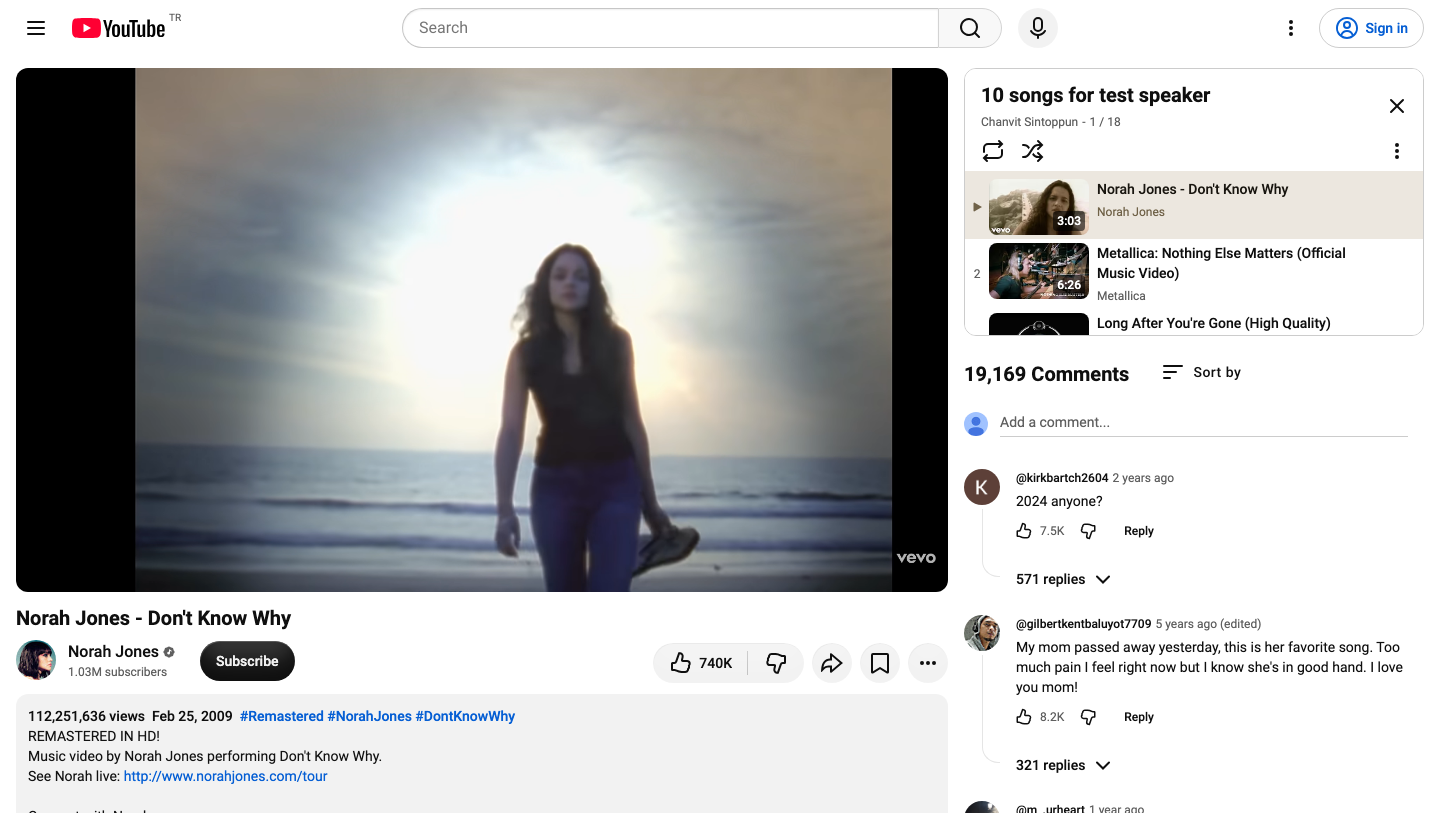
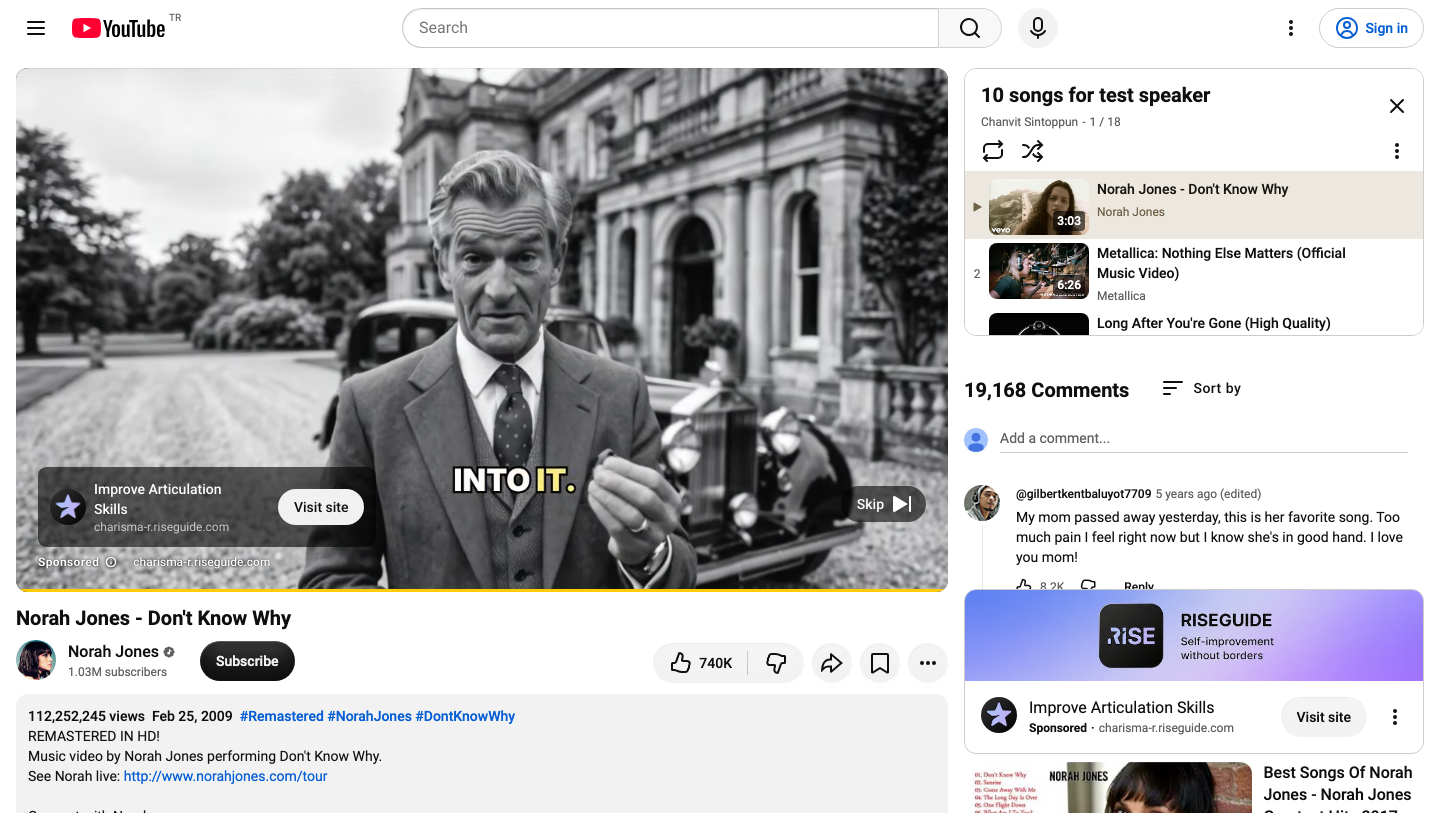
Pin comments pane and scroll recommendations separately

diff --git a/youtube-comments-right.user.js b/youtube-comments-right.user.js
@@ -1,7 +1,7 @@
 // ==UserScript==
 // @name         YouTube: Comments on the Right
 // @namespace    https://github.com/sslinkup/youtube-comments-on-right
-// @version      4.1.2
+// @version      4.2.0
 // @description  Moves comments next to the video, locks the page, and gives the right column its own scrollbar.
 // @author       sslinkup
 // @license      MIT
@@ -31,6 +31,9 @@
     expandDescription: true,      // auto-click "more" to show the full description
     playlistOnTop: true,          // move the playlist above the comments
     playlistItemsHeight: 160,     // height of the playlist's internal scroller in px
+    pinnedComments: true,         // pin comments at top, scroll recommendations below
+    commentsFlex: 1,              // relative height of the comments pane
+    recsFlex: 1,                  // relative height of the recommendations pane
   };
 
   const COMMENT_SELECTORS = ['#comments', 'ytd-comments', 'ytd-comments-renderer'];
@@ -132,11 +135,44 @@
       #secondary-inner {
         height: ${columnHeight} !important;
         max-height: ${columnHeight} !important;
+        ${CONFIG.pinnedComments ? `
+        display: flex !important;
+        flex-direction: column !important;
+        overflow: hidden !important;
+        ` : `
         overflow-y: auto !important;
         overflow-x: hidden !important;
         overscroll-behavior: contain;
         scrollbar-gutter: stable;
+        `}
       }
+      ${CONFIG.pinnedComments ? `
+      #secondary-inner > ytd-playlist-panel-renderer#playlist {
+        flex: 0 0 auto !important;
+        order: 0;
+      }
+      #secondary-inner > #comments {
+        flex: ${CONFIG.commentsFlex} 1 0 !important;
+        min-height: 0 !important;
+        overflow-y: auto !important;
+        overscroll-behavior: contain;
+        scrollbar-gutter: stable;
+        order: 1;
+      }
+      ${CONFIG.hideRecommendations ? '' : `
+      #secondary-inner > #related {
+        flex: ${CONFIG.recsFlex} 1 0 !important;
+        min-height: 0 !important;
+        overflow-y: auto !important;
+        overscroll-behavior: contain;
+        scrollbar-gutter: stable;
+        order: 2;
+      }
+      `}
+      #secondary-inner > :not(#comments):not(#related):not(ytd-playlist-panel-renderer#playlist) {
+        display: none !important;
+      }
+      ` : ''}
       ` : ''}
 
       #secondary-inner #comments { margin-top: 0 !important; }

diff --git a/README.md b/README.md
@@ -8,7 +8,7 @@ A userscript that moves YouTube's comments section into the right-hand column ne
 
 - Moves `#comments` into the secondary (right) column.
 - Locks the watch page to the viewport so it can't scroll.
-- Gives the right column its own scrollbar (`overflow-y: auto`, `overscroll-behavior: contain`).
+- Splits the right column into a **pinned comments pane** and a **separately scrolling recommendations pane** below it.
 - Caps the video description to a scrollable box (auto-expands it first).
 - Moves the playlist panel above the comments and caps its item list to a scrollable height.
 - Keeps YouTube's lazy loading of additional comments working.
@@ -46,6 +46,9 @@ Edit the `CONFIG` object near the top of the script:
 | `expandDescription` | `true` | Auto-click "more" so the full description is scrollable. |
 | `playlistOnTop` | `true` | Move the playlist panel above the comments. |
 | `playlistItemsHeight` | `160` | Height in pixels of the playlist's internal item scroller. |
+| `pinnedComments` | `true` | Pin comments at the top and scroll recommendations in a separate pane below. |
+| `commentsFlex` | `1` | Relative height share of the comments pane. |
+| `recsFlex` | `1` | Relative height share of the recommendations pane. |
 
 ## Troubleshooting
 
